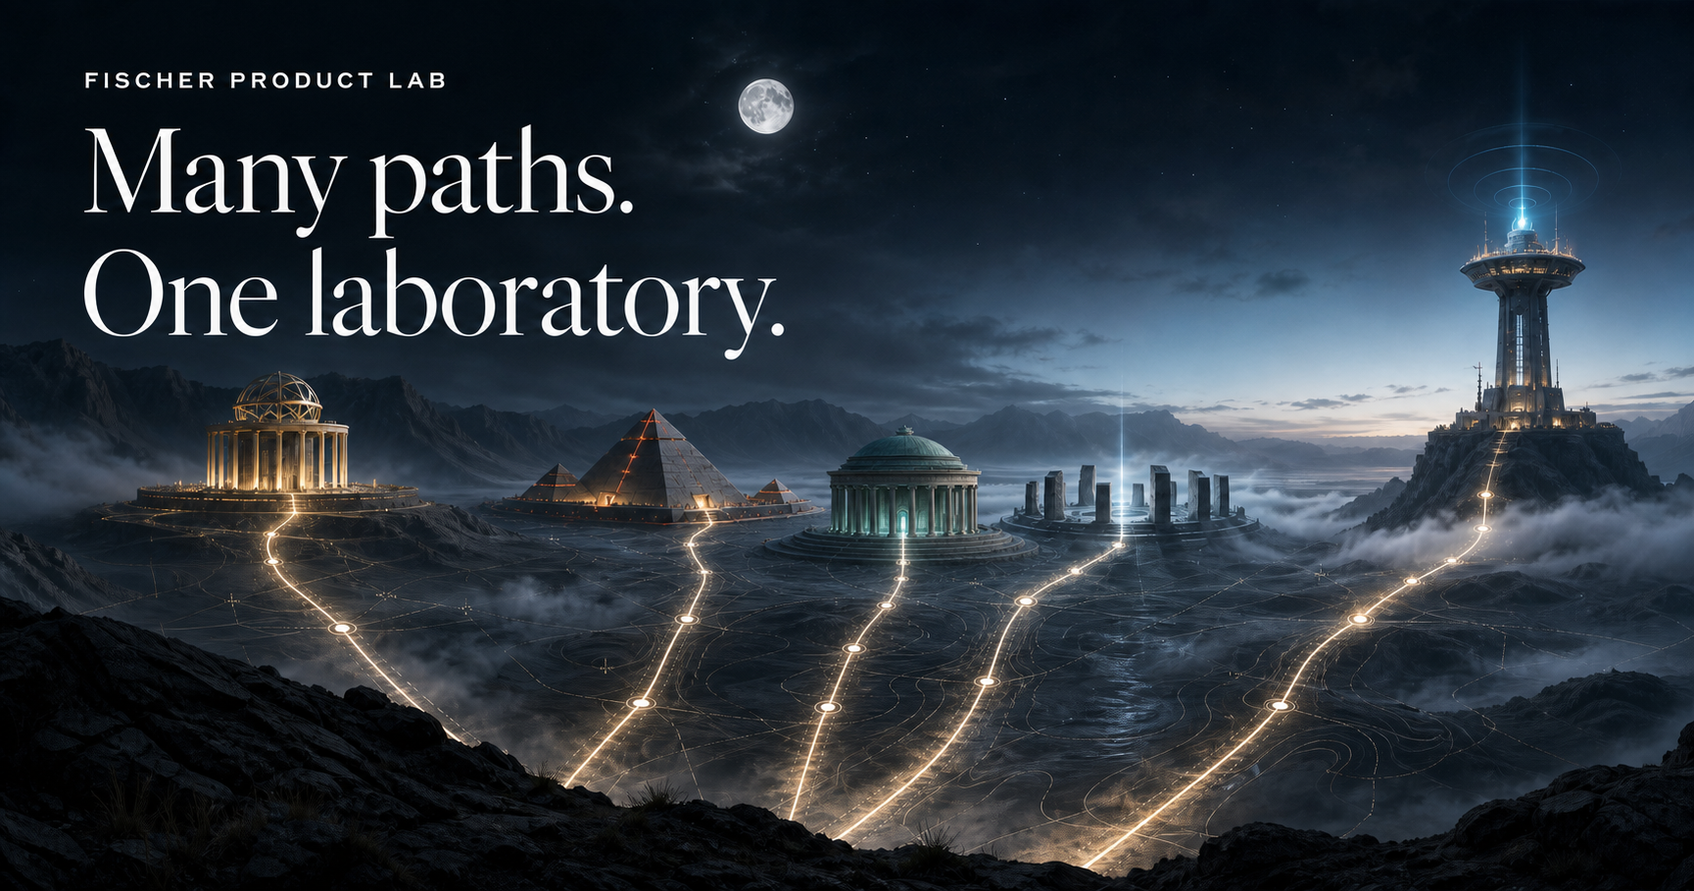
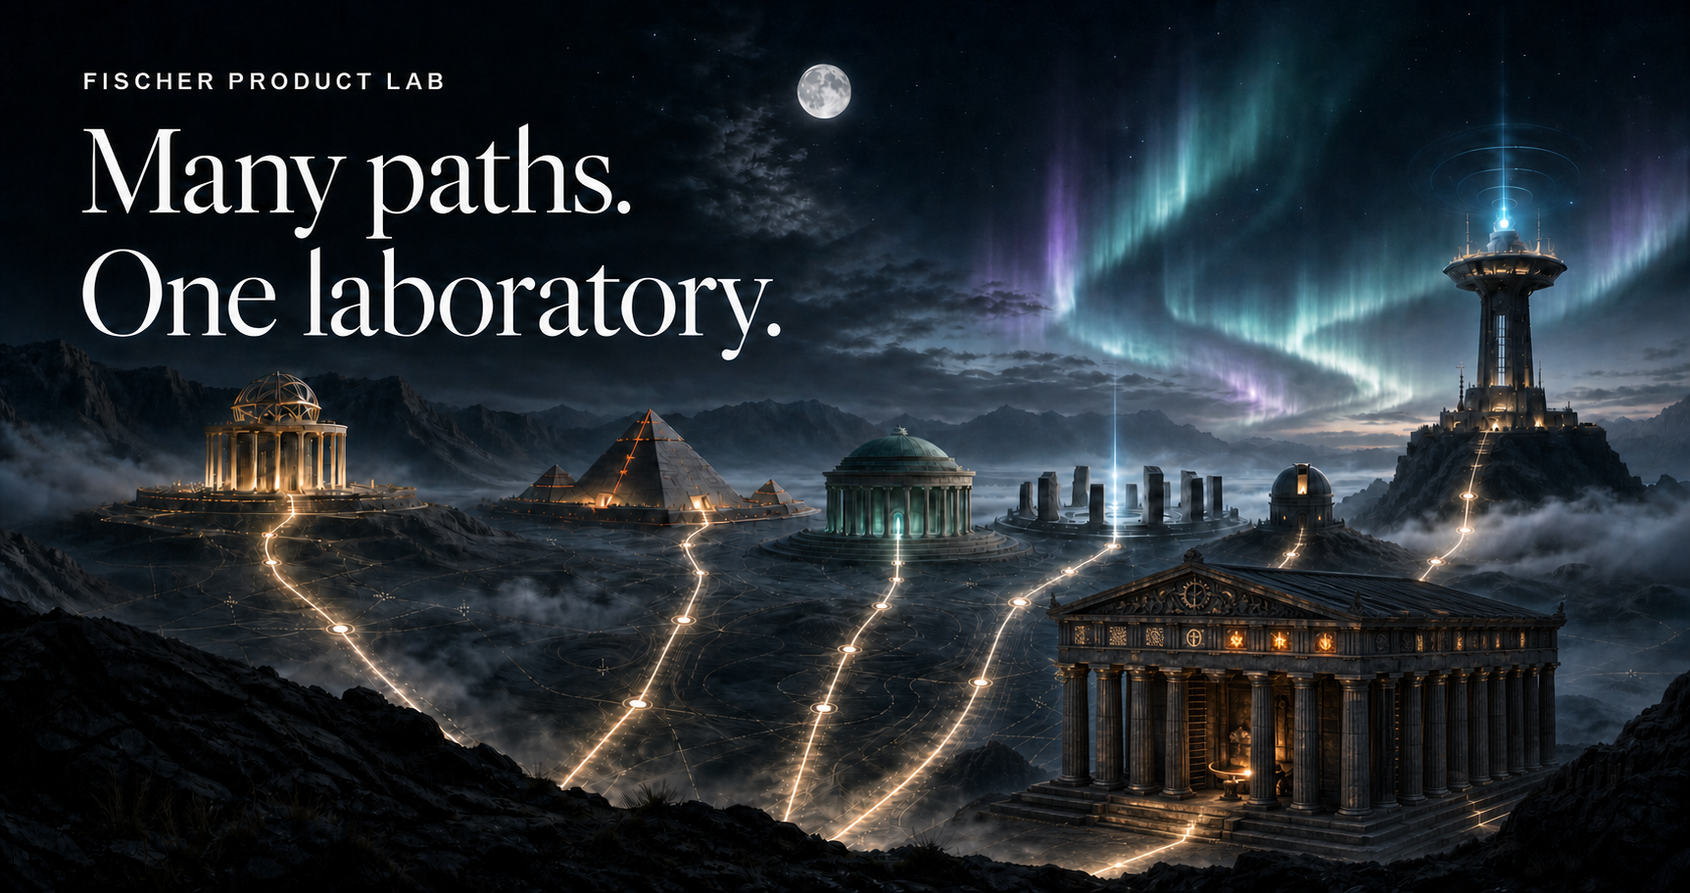
Add ProgramForge to the product landscape

diff --git a/app/globals.css b/app/globals.css
@@ -317,25 +317,27 @@ button { font: inherit; }
 .landscape { position: absolute; z-index: 2; inset: 0; transform: translate(calc(var(--px) * 3px), calc(var(--py) * 2px)); transition: transform 700ms cubic-bezier(.2,.8,.2,1); }
 .landscape:has(.landmark:hover),
 .landscape:has(.landmark:focus-within) { z-index: 12; }
-.landmark { position: absolute; z-index: 3; width: clamp(160px, 14vw, 218px); min-width: 0; height: 250px; transition: opacity 500ms ease, filter 500ms ease, transform 650ms cubic-bezier(.2,.8,.2,1); }
-.landmark-productpulse { left: 1.5%; top: 59%; --accent: var(--gold-bright); }
-.landmark-vulnboard { left: 18.5%; top: 64%; --accent: #d77955; }
-.landmark-portfoliohealth { left: 35.5%; top: 55%; --accent: var(--health); }
-.landmark-trustdesk { left: 52.5%; top: 61%; --accent: var(--silver); }
-.landmark-aurora { left: 69.5%; top: 56%; --accent: #9adbc8; }
-.landmark-agentops { right: 2.5%; top: 47%; --accent: var(--cyan); }
+.landmark { position: absolute; z-index: 3; width: clamp(114px, 13.5vw, 205px); min-width: 0; height: 250px; transition: opacity 500ms ease, filter 500ms ease, transform 650ms cubic-bezier(.2,.8,.2,1); }
+.landmark-productpulse { left: .5%; top: 59%; --accent: var(--gold-bright); }
+.landmark-vulnboard { left: 14.5%; top: 64%; --accent: #d77955; }
+.landmark-portfoliohealth { left: 28.5%; top: 55%; --accent: var(--health); }
+.landmark-trustdesk { left: 42.5%; top: 61%; --accent: var(--silver); }
+.landmark-aurora { left: 56.5%; top: 54%; --accent: #9adbc8; }
+.landmark-agentops { left: 70.5%; top: 47%; --accent: var(--cyan); }
+.landmark-programforge { left: 84.5%; top: 60%; --accent: #ad8ca4; }
 .landmark-link { position: absolute; inset: 0; display: block; color: var(--accent); text-decoration: none; outline: none; }
 .landmark-link::after { content: ""; position: absolute; left: 50%; bottom: 24px; width: 8px; height: 8px; border: 1px solid currentColor; border-radius: 50%; box-shadow: 0 0 0 6px rgba(255,255,255,.03), 0 0 18px currentColor; transform: translateX(-50%); }
 .landmark-name { position: absolute; left: 50%; bottom: 0; color: rgba(231,233,229,.62); font-size: 7px; font-weight: 700; letter-spacing: .16em; text-transform: uppercase; white-space: nowrap; transform: translateX(-50%); }
 .route { position: absolute; left: 50%; bottom: -145px; width: 1px; height: 170px; transform-origin: top; background: linear-gradient(currentColor, rgba(255,255,255,.08)); box-shadow: 0 0 8px currentColor; }
 .route > i { position: absolute; left: -2px; width: 5px; height: 5px; border: 1px solid currentColor; border-radius: 50%; background: var(--ink); }
 .route > i:nth-child(1) { top: 26%; }.route > i:nth-child(2) { top: 57%; }.route > i:nth-child(3) { top: 84%; }
-.landmark-productpulse .route { transform: rotate(20deg); }
-.landmark-vulnboard .route { transform: rotate(10deg); }
-.landmark-portfoliohealth .route { transform: rotate(0); height: 195px; }
-.landmark-trustdesk .route { transform: rotate(-10deg); }
-.landmark-aurora .route { transform: rotate(-14deg); height: 210px; }
-.landmark-agentops .route { transform: rotate(-20deg); height: 230px; }
+.landmark-productpulse .route { transform: rotate(22deg); }
+.landmark-vulnboard .route { transform: rotate(14deg); height: 180px; }
+.landmark-portfoliohealth .route { transform: rotate(7deg); height: 195px; }
+.landmark-trustdesk .route { transform: rotate(0); height: 200px; }
+.landmark-aurora .route { transform: rotate(-7deg); height: 210px; }
+.landmark-agentops .route { transform: rotate(-14deg); height: 225px; }
+.landmark-programforge .route { transform: rotate(-22deg); height: 235px; }
 
 .monument { position: absolute; left: 50%; bottom: 45px; width: 190px; height: 125px; color: var(--accent); transform: translateX(-50%); filter: drop-shadow(0 0 10px rgba(220,229,229,.12)); transition: filter 450ms ease, transform 500ms cubic-bezier(.2,.8,.2,1); }
 .observatory-roof { position: absolute; z-index: 3; top: 12px; left: 18px; width: 154px; height: 27px; clip-path: polygon(50% 0, 100% 88%, 96% 100%, 4% 100%, 0 88%); background: linear-gradient(160deg, #7b776a, #272b2b 78%); border-bottom: 2px solid currentColor; }
@@ -466,10 +468,30 @@ button { font: inherit; }
 .aurora-pier-left{left:8px}.aurora-pier-right{right:8px}
 .aurora-observatory .interface-fragment{top:5px;left:16px;width:50px;height:26px;padding:3px}
 .aurora-observatory .interface-fragment>i{height:7px}
+.hephaestus-forge{--forge-bronze:#c39a69;--forge-fire:#f2a34a;--forge-hot:#ffd27b}
+.heph-side-roof{position:absolute;z-index:2;top:12px;left:78px;width:99px;height:29px;clip-path:polygon(0 0,100% 18%,97% 100%,0 88%);background:linear-gradient(160deg,#625b52,#24292b 76%);border-bottom:2px solid color-mix(in srgb,var(--forge-bronze) 72%,transparent)}
+.heph-pediment{position:absolute;z-index:5;top:7px;left:17px;width:111px;height:35px;clip-path:polygon(50% 0,100% 100%,0 100%);background:linear-gradient(155deg,#777168,#292d2d 76%);filter:drop-shadow(0 2px 0 var(--forge-bronze))}
+.heph-pediment::after{content:"";position:absolute;left:50%;bottom:7px;width:5px;height:5px;border:1px solid var(--forge-bronze);border-radius:50%;box-shadow:-12px 5px 0 -1px var(--forge-bronze),12px 5px 0 -1px var(--forge-bronze);transform:translateX(-50%)}
+.heph-frieze{position:absolute;z-index:7;top:40px;left:17px;width:160px;height:13px;display:grid;grid-template-columns:repeat(8,1fr);gap:3px;padding:3px 6px;background:linear-gradient(90deg,#373838,#5c574f 54%,#282d2f);border-top:1px solid var(--forge-bronze);border-bottom:1px solid rgba(255,255,255,.08);clip-path:polygon(0 0,100% 10%,97% 100%,0 100%)}
+.heph-frieze i{background:#746d62;box-shadow:inset 0 0 0 1px rgba(255,255,255,.06)}
+.heph-frieze i:nth-child(1),.heph-frieze i:nth-child(3),.heph-frieze i:nth-child(6){background:var(--forge-fire);box-shadow:0 0 7px rgba(242,163,74,.65);animation:hephRisk 4.6s ease-in-out infinite}
+.heph-frieze i:nth-child(3){animation-delay:-1.5s}.heph-frieze i:nth-child(6){animation-delay:-3s}
+.heph-naos{position:absolute;z-index:3;top:52px;left:40px;width:92px;height:54px;overflow:hidden;background:radial-gradient(circle at 50% 91%,rgba(242,163,74,.28),transparent 38%),linear-gradient(90deg,#111719,#303133 52%,#151a1c);border-left:1px solid rgba(195,154,105,.3);border-right:1px solid rgba(195,154,105,.3)}
+.hephaestus-forge .interface-fragment{z-index:4;top:5px;left:11px;width:68px;height:29px;padding:3px;background:rgba(7,10,12,.68);border-color:rgba(195,154,105,.5)}
+.hephaestus-forge .interface-fragment>i{height:6px}
+.heph-dependencies{position:absolute;z-index:2;inset:3px 5px 10px}.heph-dependencies i{position:absolute;height:1px;background:linear-gradient(90deg,transparent,var(--forge-bronze));opacity:.5;transform-origin:left}.heph-dependencies i:nth-child(1){left:0;top:6px;width:48px;transform:rotate(24deg)}.heph-dependencies i:nth-child(2){right:0;top:5px;width:48px;transform:rotate(156deg);transform-origin:right}.heph-dependencies i:nth-child(3){left:13px;top:25px;width:62px;transform:rotate(6deg)}
+.heph-dependencies i::after{content:"";position:absolute;right:-2px;top:-2px;width:4px;height:4px;border:1px solid var(--forge-hot);border-radius:50%;box-shadow:0 0 6px var(--forge-fire)}
+.heph-hearth{position:absolute;z-index:6;left:50%;bottom:3px;width:30px;height:7px;border:1px solid var(--forge-bronze);border-radius:50%;background:#31251d;box-shadow:0 0 13px rgba(242,163,74,.62);transform:translateX(-50%)}
+.heph-hearth::before{content:"";position:absolute;left:50%;bottom:4px;width:15px;height:24px;clip-path:polygon(50% 0,73% 35%,100% 66%,75% 100%,25% 100%,0 66%,30% 40%);background:linear-gradient(var(--forge-hot),var(--forge-fire) 58%,#b95031);filter:drop-shadow(0 0 5px var(--forge-fire));transform:translateX(-50%);transform-origin:50% 100%;animation:hephFlame 2.7s ease-in-out infinite}
+.heph-front-columns{position:absolute;z-index:8;top:52px;left:23px;width:103px;height:55px;display:flex;justify-content:space-between}.heph-front-columns i,.heph-side-columns i{position:relative;width:8px;background:linear-gradient(90deg,#292d2d,#817a6e 48%,#343838);border-top:4px solid #8d826f;border-bottom:4px solid #292e2f;box-shadow:inset 0 0 0 1px rgba(236,217,168,.08)}.heph-front-columns i::before,.heph-side-columns i::before{content:"";position:absolute;left:-2px;right:-2px;top:-5px;height:3px;background:#827866}
+.heph-side-columns{position:absolute;z-index:6;top:53px;left:130px;width:43px;height:52px;display:flex;justify-content:space-between;transform:skewY(-2deg)}.heph-side-columns i{width:5px;opacity:.9}.heph-side-columns i:nth-child(2){height:51px}.heph-side-columns i:nth-child(3){height:50px}.heph-side-columns i:nth-child(4){height:49px}.heph-side-columns i:nth-child(5){height:48px}
+.heph-steps{position:absolute;z-index:9;left:8px;right:8px;bottom:6px;height:15px;background:linear-gradient(180deg,#645f57 0 24%,#292f31 25% 48%,#514d47 49% 68%,#171d20 69%);border-top:1px solid var(--forge-bronze);clip-path:polygon(6% 0,94% 0,97% 34%,99% 35%,100% 66%,97% 67%,100% 100%,0 100%,3% 67%,0 66%,1% 35%,3% 34%)}
+.heph-embers{position:absolute;z-index:10;left:84px;bottom:51px;width:28px;height:32px;pointer-events:none}.heph-embers i{position:absolute;bottom:0;width:2px;height:2px;border-radius:50%;background:var(--forge-hot);box-shadow:0 0 5px var(--forge-fire);animation:hephEmber 3.4s ease-out infinite}.heph-embers i:nth-child(1){left:4px;animation-delay:-.7s}.heph-embers i:nth-child(2){left:14px;animation-delay:-2s}.heph-embers i:nth-child(3){left:23px;animation-delay:-2.8s}
 
 .annotation { position: absolute; z-index: 20; left: 50%; bottom: 195px; width: clamp(200px, 16vw, 240px); padding: 14px 10px 10px; border-top: 1px solid var(--accent); color: var(--fog); background: linear-gradient(135deg, rgba(3,6,9,.72), rgba(3,6,9,.24) 78%, transparent); box-shadow: 0 8px 28px rgba(3,6,9,.2); opacity: 0; pointer-events: none; transform: translate(-50%, 12px); text-shadow: 0 2px 16px var(--ink); transition: opacity 300ms ease, transform 400ms cubic-bezier(.2,.8,.2,1); }
 .landmark-productpulse .annotation { left: 108%; bottom: -12px; width: 215px; }
 .landmark-aurora .annotation { left: 28%; bottom: 195px; width: 230px; }
+.landmark-programforge .annotation { left: 22%; bottom: 195px; width: 230px; }
 .annotation-meta { display:flex; justify-content:space-between; color:rgba(231,233,229,.5); font-size:7px; line-height:1.2; letter-spacing:.14em; text-transform:uppercase; }.annotation-meta b{color:var(--accent)}
 .annotation p { margin:8px 0 3px; color:var(--accent); font-size:7px; font-weight:700; letter-spacing:.12em; text-transform:uppercase; }.annotation h3{margin:0;font-family:var(--serif);font-size:clamp(18px,1.2vw,20px);font-weight:400;line-height:1.08}.annotation > span:not(.annotation-meta){display:block;margin-top:8px;color:rgba(231,233,229,.76);font-family:var(--serif);font-size:clamp(10px,.7vw,11px);line-height:1.5}.annotation-actions{display:flex;flex-wrap:wrap;gap:7px 14px;align-items:center;margin-top:10px}.annotation a{display:inline-block;color:var(--fog);font-size:8px;font-weight:700;letter-spacing:.14em;text-decoration:none;text-transform:uppercase;pointer-events:auto}.annotation a i{color:var(--accent);font-style:normal}.annotation-source{color:rgba(231,233,229,.62)!important}
 .landmark.is-active { z-index: 8; }
@@ -500,11 +522,11 @@ button { font: inherit; }
 .path-row:hover,.path-row:focus-visible { padding:0 18px; background:rgba(255,255,255,.035); outline:none; }
 .path-number { color:rgba(231,233,229,.38); font-family:var(--serif); font-size:15px; }
 .path-monument { position:relative; display:block; height:150px; --accent:var(--gold-bright); }
-.path-vulnboard .path-monument{--accent:#d77955}.path-portfoliohealth .path-monument{--accent:var(--health)}.path-trustdesk .path-monument{--accent:var(--silver)}.path-aurora .path-monument{--accent:#9adbc8}.path-agentops .path-monument{--accent:var(--cyan)}
+.path-vulnboard .path-monument{--accent:#d77955}.path-portfoliohealth .path-monument{--accent:var(--health)}.path-trustdesk .path-monument{--accent:var(--silver)}.path-aurora .path-monument{--accent:#9adbc8}.path-agentops .path-monument{--accent:var(--cyan)}.path-programforge .path-monument{--accent:#ad8ca4}
 .path-monument .monument { bottom:10px; transform:translateX(-50%) scale(.78); }
 .path-row:hover .path-monument .monument,.path-row:focus-visible .path-monument .monument { filter:drop-shadow(0 0 18px color-mix(in srgb,var(--accent) 36%,transparent)); transform:translateX(-50%) translateY(-5px) scale(.83); }
 .path-copy { display:grid; gap:6px; }
-.path-copy small { color:var(--accent,var(--gold-bright)); font-size:7px; font-weight:700; letter-spacing:.15em; text-transform:uppercase; }.path-vulnboard{--accent:#d77955}.path-portfoliohealth{--accent:var(--health)}.path-trustdesk{--accent:var(--silver)}.path-aurora{--accent:#9adbc8}.path-agentops{--accent:var(--cyan)}
+.path-copy small { color:var(--accent,var(--gold-bright)); font-size:7px; font-weight:700; letter-spacing:.15em; text-transform:uppercase; }.path-vulnboard{--accent:#d77955}.path-portfoliohealth{--accent:var(--health)}.path-trustdesk{--accent:var(--silver)}.path-aurora{--accent:#9adbc8}.path-agentops{--accent:var(--cyan)}.path-programforge{--accent:#ad8ca4}
 .path-copy strong { font-family:var(--serif); font-size:clamp(28px,3vw,44px); font-weight:400; }
 .path-copy > span { max-width:550px; color:rgba(231,233,229,.6); font-family:var(--serif); font-size:14px; line-height:1.5; }
 .path-action { display:flex; flex-direction:column; gap:14px; align-items:flex-end; color:rgba(231,233,229,.72); font-size:8px; font-weight:700; letter-spacing:.14em; text-transform:uppercase; }.path-action i{padding:4px 7px;border:1px solid color-mix(in srgb,var(--accent) 38%,transparent);color:var(--accent);font-size:6px;font-style:normal}
@@ -547,6 +569,9 @@ button { font: inherit; }
 @keyframes scan{0%,100%{transform:translateY(0);opacity:.18}50%{transform:translateY(75px);opacity:.85}}
 @keyframes signal{50%{opacity:.35;transform:scale(1.5)}}
 @keyframes auroraVeil{from{opacity:.38;transform:translateX(-4px) scaleY(.9)}to{opacity:.78;transform:translateX(4px) scaleY(1.04)}}
+@keyframes hephFlame{50%{opacity:.76;transform:translateX(-50%) scale(.84,1.1)}}
+@keyframes hephRisk{50%{opacity:.5;filter:brightness(1.25)}}
+@keyframes hephEmber{0%{opacity:0;transform:translate(0,2px)}25%{opacity:.9}100%{opacity:0;transform:translate(5px,-27px)}}
 @keyframes orbit{to{transform:rotate(360deg) translateX(3px)}}
 
 @media (pointer:fine) {
@@ -556,16 +581,26 @@ button { font: inherit; }
 @media (min-width:801px) {
   .landscape{z-index:9}
   .landmark-vulnboard .annotation{left:165%;bottom:72px}
-  .landmark-portfoliohealth .annotation{left:125%}
+  .landmark-portfoliohealth .annotation{left:220%}
+  .landmark-trustdesk .annotation{left:160%}
   .landmark-aurora .annotation{left:28%;bottom:195px}
   .landmark-agentops .annotation{left:40%}
+  .landmark-programforge .annotation{left:22%;bottom:195px}
 }
 
-@media (min-width:801px) and (max-width:1100px) {
-  .landmark-portfoliohealth .annotation{left:200%}
+@media (min-width:801px) and (max-width:1280px) {
+  .landmark-portfoliohealth .annotation{left:300%}
+  .landmark-trustdesk .annotation{left:220%}
   .landmark-aurora{top:66%}
   .landmark-agentops{top:43%}
-  .landmark-aurora .annotation{left:5%;bottom:205px}
+  .landmark-aurora .annotation{left:150%;bottom:205px}
+  .landmark-agentops .annotation{left:100%}
+  .landmark-programforge .annotation{left:10%;bottom:195px;width:220px}
+}
+
+@media (min-width:1101px) and (max-width:1280px) {
+  .monument{transform:translateX(-50%) scale(.82)}
+  .landmark.is-active .monument,.landmark:focus-within .monument{transform:translateX(-50%) translateY(-4px) scale(.88)}
 }
 
 @media (max-width:1100px) {
@@ -574,6 +609,11 @@ button { font: inherit; }
   .monument{transform:translateX(-50%) scale(.76)}.landmark.is-active .monument,.landmark:focus-within .monument{transform:translateX(-50%) translateY(-4px) scale(.82)}
   .path-row{grid-template-columns:50px 170px minmax(240px,1fr) 160px}
   .section-heading{grid-template-columns:.35fr 1.2fr .65fr;gap:4vw}
+}
+
+@media (min-width:801px) and (max-width:950px) {
+  .monument{transform:translateX(-50%) scale(.59)}
+  .landmark.is-active .monument,.landmark:focus-within .monument{transform:translateX(-50%) translateY(-4px) scale(.64)}
 }
 
 @media (max-width:800px) {
@@ -591,7 +631,7 @@ button { font: inherit; }
   .landmark::before{content:"";position:absolute;inset:10% 0 0;background:radial-gradient(ellipse at 50% 70%,rgba(161,177,180,.23),transparent 56%);filter:blur(12px)}
   .landmark-link{inset:0 0 195px}.landmark-link .monument{bottom:85px;transform:translateX(-50%) scale(1.1)}.landmark.is-active .monument,.landmark:focus-within .monument{transform:translateX(-50%) translateY(-4px) scale(1.15)}
   .route{bottom:-115px;height:205px!important;transform:rotate(0)!important}.landmark-name{bottom:51px;font-size:8px}
-  .annotation,.landmark-productpulse .annotation,.landmark-aurora .annotation{left:24px;right:24px;bottom:38px;width:auto;background:none;box-shadow:none;opacity:1;transform:none!important;pointer-events:auto}.annotation h3{font-size:23px}.annotation>span:not(.annotation-meta){font-size:12px}.annotation a{font-size:8px}
+  .annotation,.landmark-productpulse .annotation,.landmark-aurora .annotation,.landmark-programforge .annotation{left:24px;right:24px;bottom:38px;width:auto;background:none;box-shadow:none;opacity:1;transform:none!important;pointer-events:auto}.annotation h3{font-size:23px}.annotation>span:not(.annotation-meta){font-size:12px}.annotation a{font-size:8px}
   .frontier-instruction{display:none}
   .section-shell{padding:100px 24px}.section-heading,.compact-heading{display:block}.section-heading .section-mark{margin-top:0}.section-heading h2{font-size:clamp(50px,14vw,76px)}.section-heading>p{margin-top:28px}
   .path-list{margin-top:65px}.path-row{min-height:430px;display:grid;grid-template-columns:35px 1fr;gap:8px 20px;padding:32px 0}.path-row:hover,.path-row:focus-visible{padding:32px 8px}.path-number{grid-row:1 / span 3}.path-monument{height:150px}.path-copy{grid-column:2}.path-copy strong{font-size:38px}.path-copy>span{font-size:15px}.path-action{grid-column:2;align-items:flex-start;margin-top:18px}.path-monument .monument{transform:translateX(-50%) scale(.83)}
@@ -600,6 +640,11 @@ button { font: inherit; }
   .builder{display:block}.builder-portrait{width:min(100%,420px);margin:0 auto 70px}.builder-copy h2{font-size:clamp(60px,17vw,92px)}
   .open-path{min-height:720px}.open-path h2{font-size:clamp(76px,22vw,116px)}
   .footer{display:block;padding-bottom:100px}.footer-wordmark{margin-bottom:50px}.footer .product-index{display:block}.footer .index-label{display:block;margin-bottom:18px}.footer .index-links{grid-template-columns:1fr 1fr}.footer-meta{justify-content:start;margin-top:55px;text-align:left}
+}
+
+@media (max-width:380px) {
+  .product-index.compact .index-links{gap:3px}
+  .product-index.compact .index-links a{font-size:5px;letter-spacing:.05em}
 }
 
 @media (prefers-reduced-motion: reduce) {

diff --git a/app/page.tsx b/app/page.tsx
@@ -10,6 +10,7 @@ const metrics: Record<ProductId, readonly [string, string, string, string]> = {
   trustdesk: ["Open", "7", "Automation", "51%"],
   aurora: ["Lanes", "4", "Checks", "2 / 2"],
   agentops: ["Agents", "8", "Launch ready", "3"],
+  programforge: ["Portfolio", "75", "Decisions", "4"],
 };
 
 function useReducedMotion() {
@@ -122,6 +123,31 @@ function Monument({ product }: { product: Product }) {
         <div className="tower-crown"><span /><span /><span /></div>
         <div className="tower-body"><InterfaceFragment product={product} /></div>
         <div className="tower-wing left" /><div className="tower-wing right" />
+      </div>
+    );
+  }
+
+  if (product.id === "programforge") {
+    return (
+      <div className="monument hephaestus-forge" aria-hidden="true">
+        <span className="heph-side-roof" />
+        <span className="heph-pediment" />
+        <div className="heph-frieze">
+          {Array.from({ length: 8 }, (_, i) => <i key={i} />)}
+        </div>
+        <div className="heph-naos">
+          <div className="heph-dependencies"><i /><i /><i /></div>
+          <InterfaceFragment product={product} />
+          <span className="heph-hearth" />
+        </div>
+        <div className="heph-front-columns">
+          {Array.from({ length: 6 }, (_, i) => <i key={i} />)}
+        </div>
+        <div className="heph-side-columns">
+          {Array.from({ length: 5 }, (_, i) => <i key={i} />)}
+        </div>
+        <div className="heph-embers"><i /><i /><i /></div>
+        <span className="heph-steps" />
       </div>
     );
   }
@@ -280,7 +306,7 @@ export default function Home() {
           <p>Independent products for clearer decisions, stronger trust, and better-operated systems.</p>
           <a className="text-link" href="#paths">Choose a path <span aria-hidden="true">↓</span></a>
         </div>
-        <div className="landscape" role="group" aria-label="Six product landmarks">
+        <div className="landscape" role="group" aria-label="Seven product landmarks">
           {products.map((product) => (
             <Landmark
               key={product.id}
@@ -300,7 +326,7 @@ export default function Home() {
       <section className="paths section-shell" id="paths" aria-labelledby="paths-title">
         <div className="section-heading">
           <SectionMark number="02">Choose a path</SectionMark>
-          <h2 id="paths-title">Six questions.<br />Six working answers.</h2>
+          <h2 id="paths-title">Seven questions.<br />Seven working answers.</h2>
           <p>Each route leads to a live product. The landscape remains; the instruments come into focus.</p>
         </div>
         <div className="path-list">
@@ -324,7 +350,7 @@ export default function Home() {
         <div className="lab-copy">
           <SectionMark number="03">Inside the lab</SectionMark>
           <h2 id="lab-title">The work begins<br />with a useful question.</h2>
-          <p>What signal is missing? Where does service health begin to drift? Where does trust slow down? Which risk needs an owner? How should agent work stay controlled when a plan or specialist fails? What should be ready before launch?</p>
+          <p>What signal is missing? Where does service health begin to drift? Where does trust slow down? Which risk needs an owner? How should agent work stay controlled when a plan or specialist fails? What should be ready before launch? Are the right cross-team initiatives on track, unblocked, and ready for leadership decision?</p>
           <p>Each product begins as a question. The lab is where we build the answer.</p>
         </div>
         <p className="lab-note">Some paths lead to finished products. Others remain experiments. All of them move the work forward.</p>

diff --git a/app/products.ts b/app/products.ts
@@ -89,6 +89,26 @@ export const products = [
     routeLabel: "Command the fleet",
     coordinate: "88.2 / G",
   },
+  {
+    id: "programforge",
+    name: "ProgramForge",
+    eyebrow: "Cross-Team Program Management",
+    tagline:
+      "See which cross-team initiatives are on track, what is blocked, and what leadership must decide this cycle.",
+    description:
+      "An executive program-management dashboard for priorities, dependencies, RAID, readiness gates, milestones, capacity pressure, and leadership briefs.",
+    portfolioValue:
+      "ProgramForge turns mid-flight delivery signals into deterministic, explainable program health and a decision-ready leadership view.",
+    status: "New",
+    url: "https://program-forge-fpl.vercel.app/",
+    githubUrl: "https://github.com/Fischer-Product-Lab/ProgramForge",
+    ctaLabel: "Explore the dashboard",
+    landmark: "The Forge of Hephaestus",
+    inspiration: "The Temple of Hephaestus reimagined as a working decision forge",
+    accent: "weathered bronze, ember gold, and muted plum",
+    routeLabel: "Enter the forge",
+    coordinate: "75.0 / F",
+  },
 ] as const;
 
 export type Product = (typeof products)[number];

diff --git a/app/layout.tsx b/app/layout.tsx
@@ -25,13 +25,13 @@ export async function generateMetadata(): Promise<Metadata> {
     openGraph: {
       title: "Fischer Product Lab | Many paths. One laboratory.",
       description: "Independent products for clearer decisions, stronger trust, and better-operated systems.",
-      images: [`${origin}/og-aurora.png`],
+      images: [`${origin}/og.png`],
     },
     twitter: {
       card: "summary_large_image",
       title: "Fischer Product Lab | Many paths. One laboratory.",
       description: "Independent products for clearer decisions, stronger trust, and better-operated systems.",
-      images: [`${origin}/og-aurora.png`],
+      images: [`${origin}/og.png`],
     },
   };
 }
